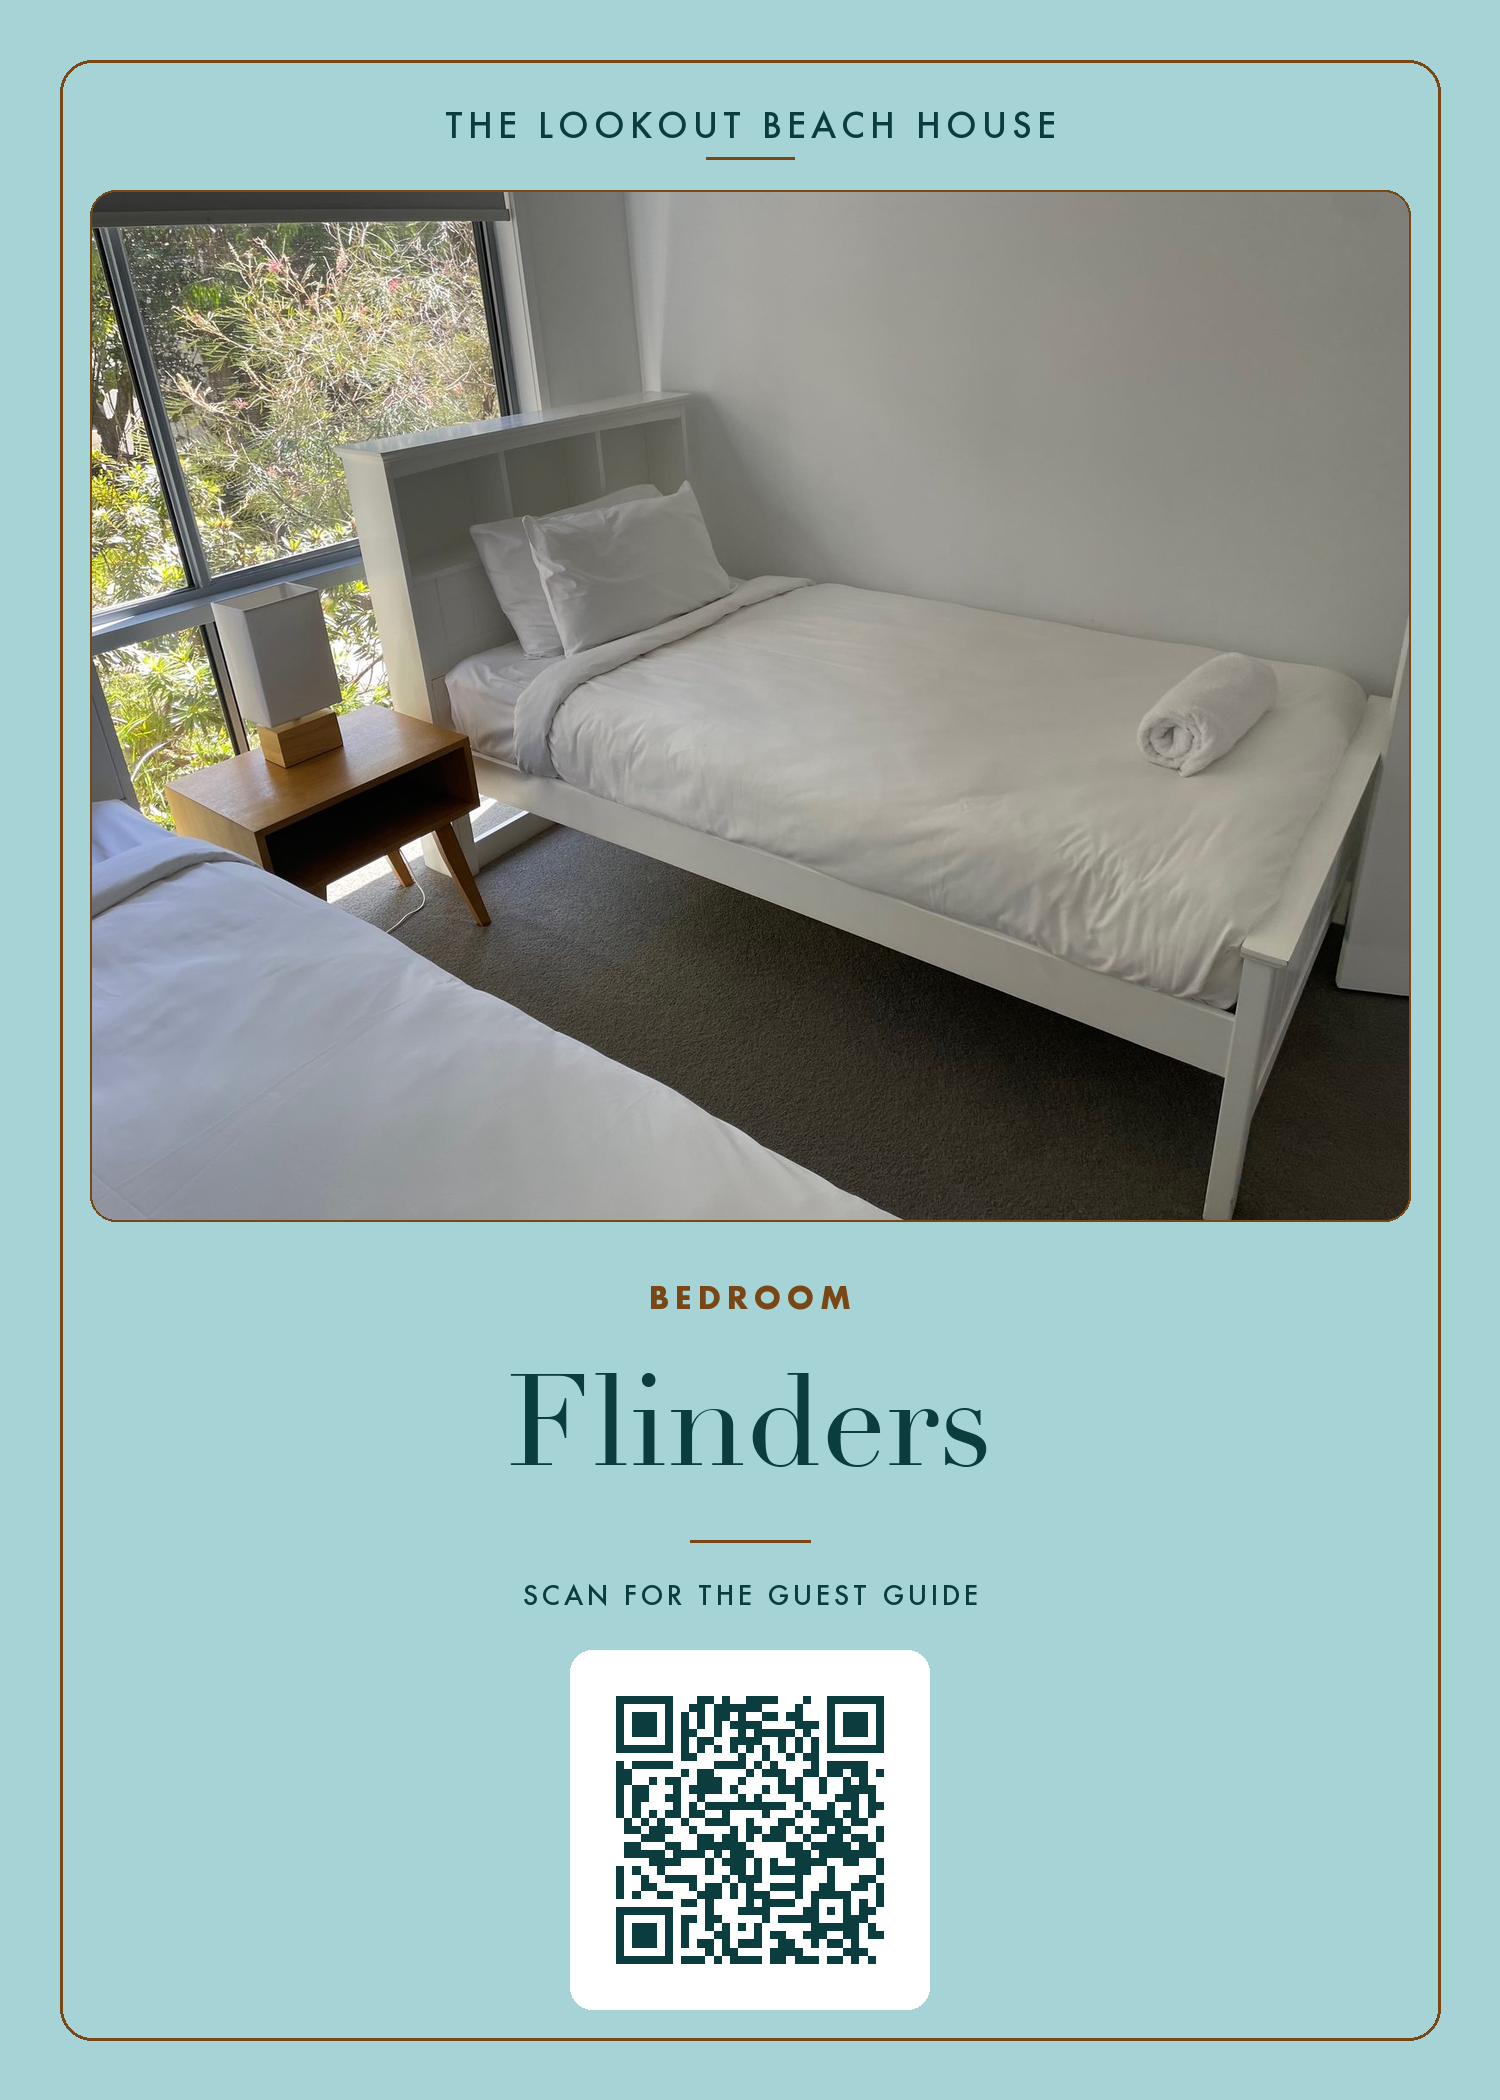
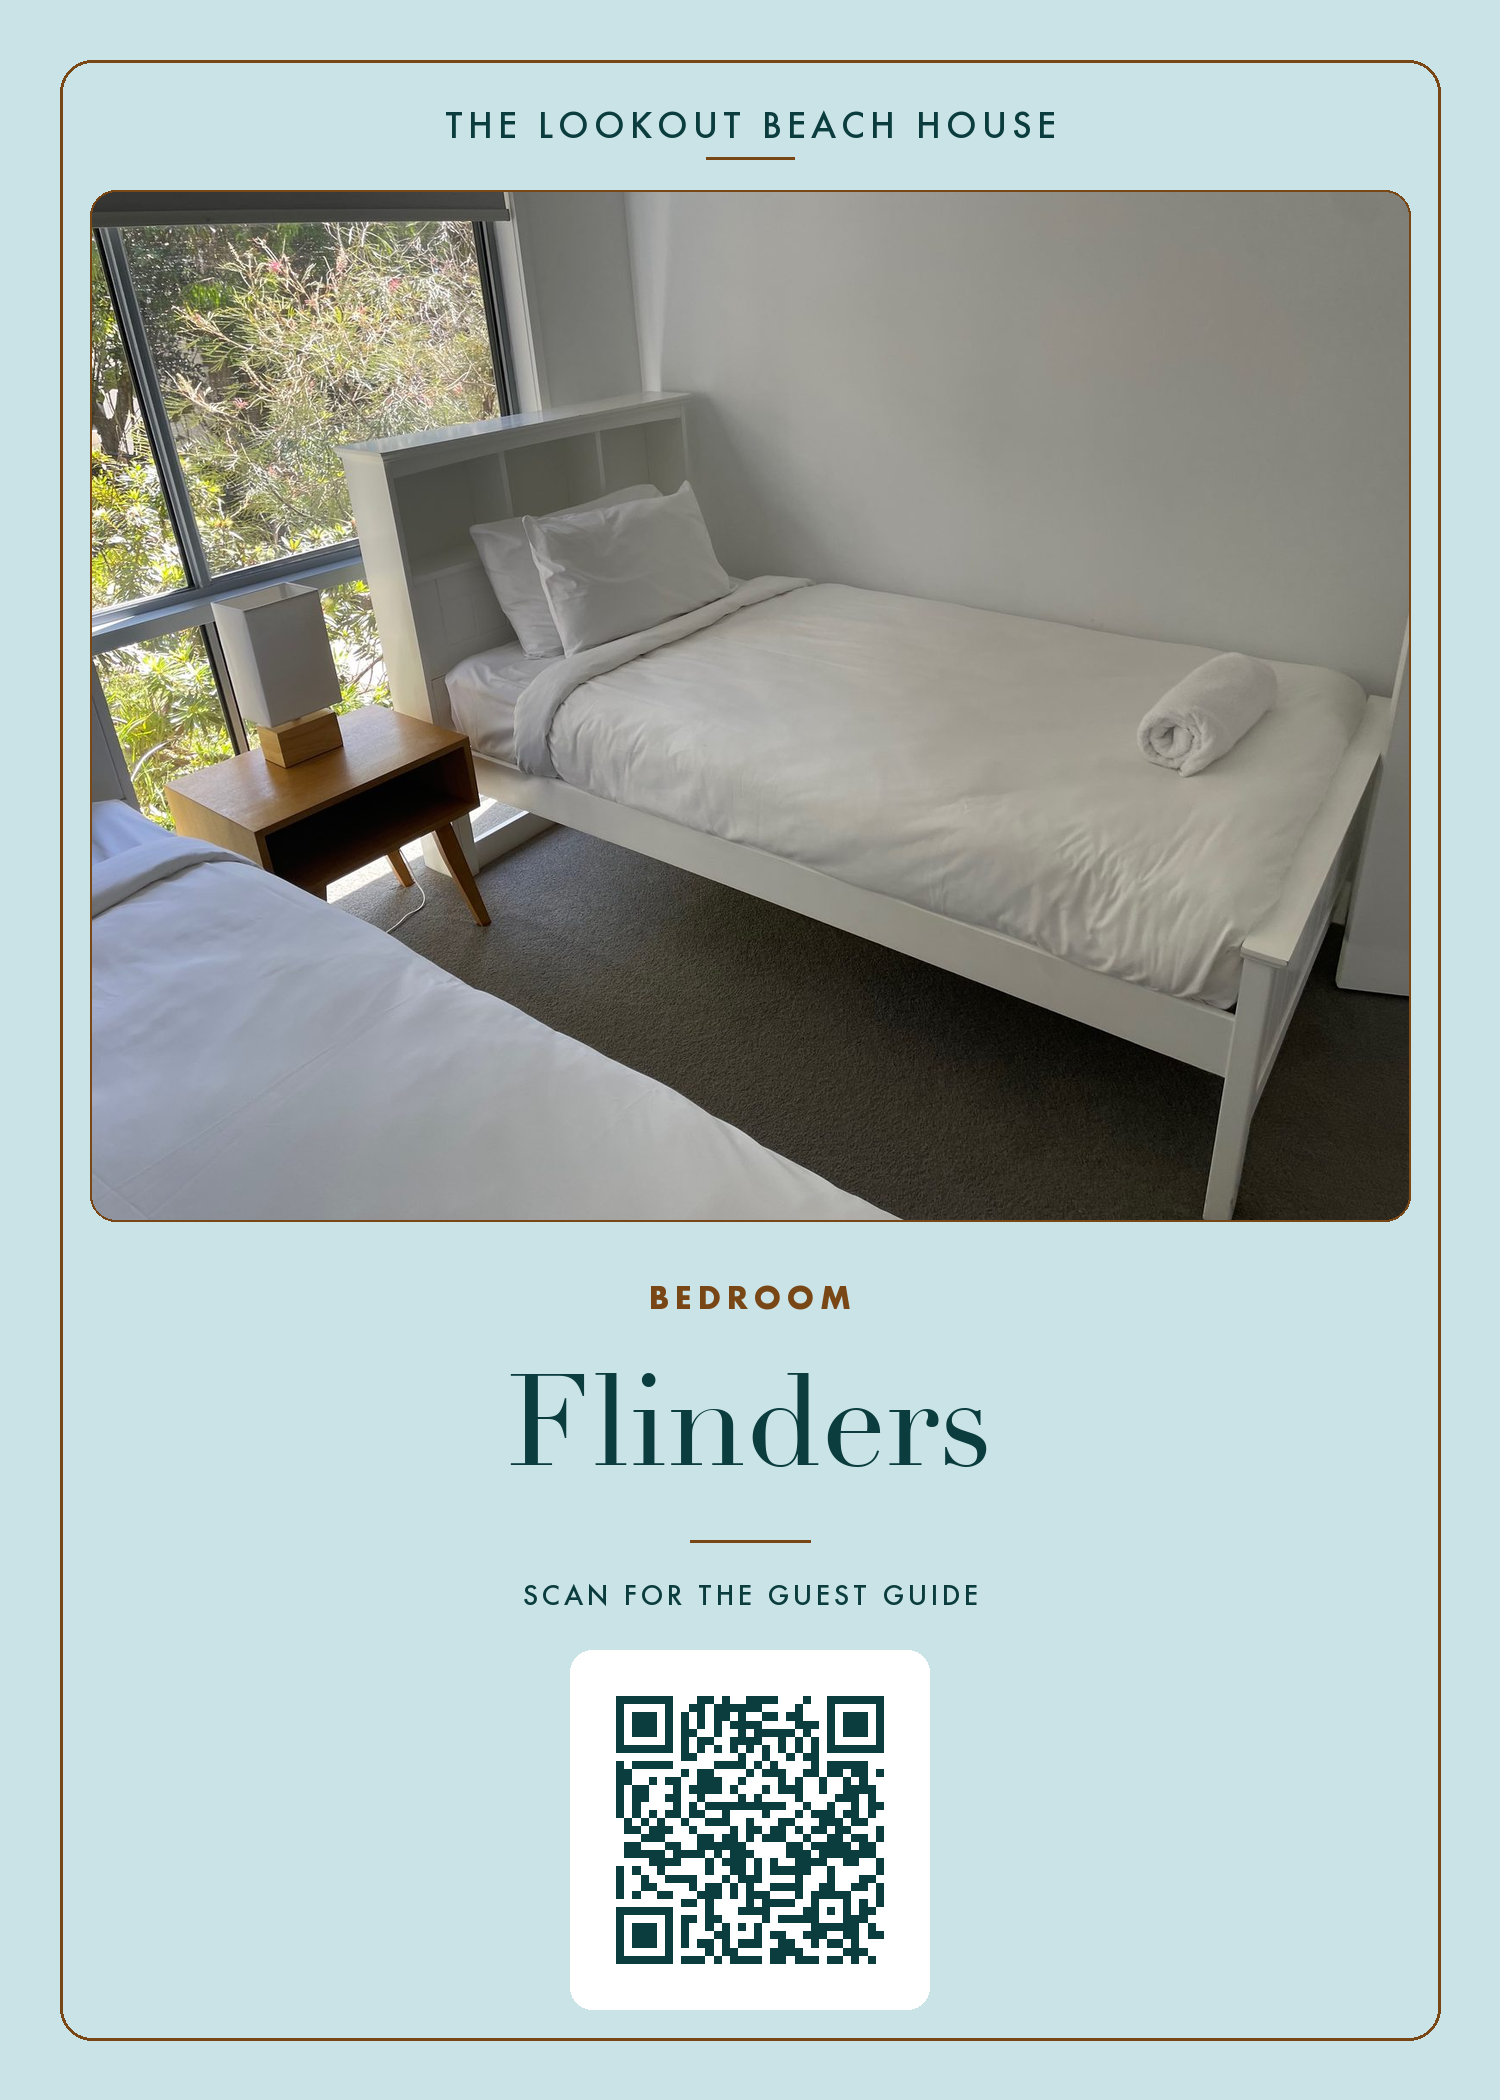
Update room plaques to the revised Coastal Colour Palette
The moodboard in ingest/ was revised to add true warm/orange tones
(Sunset Ochre, Sunset Clay, Outback Earth) and drop Ocean Depth and
Coastal Green. Remaps all 12 plaques to the new 14-colour palette —
Balcony and Dining finally get proper sunset colours instead of a
dusty rose/taupe stand-in. DESIGN-SYSTEM.md documents the new
palette, mapping rationale, and that this is now a second revision.

diff --git a/plaques/generate.py b/plaques/generate.py
@@ -36,10 +36,10 @@ WHITE = (255, 255, 255)
 AMBER_DEEP = (121, 71, 21)   # accent on pale (sand/foam) cards — AMBER is too washed out there
 
 # The Wi-Fi plaque isn't a room, so it gets its own colour rather than one
-# from rooms.yml — the darkest tone in the official Coastal Colour
-# Palette, see plaques/DESIGN-SYSTEM.md.
-WIFI_COLOR = (31, 61, 77)     # Ocean Depth — #1F3D4D
-WIFI_COLOR_NAME = "Ocean Depth"
+# from rooms.yml — the deepest, earthiest tone in the official Coastal
+# Colour Palette, see plaques/DESIGN-SYSTEM.md.
+WIFI_COLOR = (239, 184, 139)     # Outback Earth — #EFB88B
+WIFI_COLOR_NAME = "Outback Earth"
 
 HOUSE_NAME = "THE LOOKOUT BEACH HOUSE"
 

diff --git a/plaques/DESIGN-SYSTEM.md b/plaques/DESIGN-SYSTEM.md
@@ -21,65 +21,75 @@ its own identity through colour, drawn from the house's official
 
 ### Source
 
-The full palette (13 named, hex-specified colours) came in as a
+The full palette (14 named, hex-specified colours) came in as a
 moodboard image via `ingest/` — like all raw ingest material it isn't
 committed (see `.gitignore` / `README.md`'s ingest note); this table is
-the durable, checked-in record of it:
+the durable, checked-in record of it. **This palette has been revised
+once already** (the original had no true warm/orange colours — Ocean
+Depth and Coastal Green from that version are gone, replaced with Sunset
+Ochre, Sunset Clay, and Outback Earth); if `ingest/` gets another updated
+moodboard, update this table and the mapping below to match, the same
+way this revision did.
 
 | Colour | Hex | Tier |
 |---|---|---|
 | Deep Cornflour Blue | `#26507A` | Primary |
 | Light Forest Green | `#7FA17F` | Primary |
 | Sandy Taupe | `#C8BCA6` | Primary |
-| Ocean Depth | `#1F3D4D` | Secondary |
-| Sea Glass | `#6DB7B5` | Secondary |
-| Tide Pool | `#A6D3D6` | Secondary |
-| Soft Sand | `#E7DFC9` | Secondary |
-| Driftwood | `#D8C7A6` | Secondary |
-| Dune Grass | `#A8B89A` | Secondary |
-| Coastal Green | `#6E8B6F` | Secondary |
-| Sea Foam | `#BFD8C6` | Secondary |
-| Coastal Sky | `#B7CCE1` | Secondary |
-| Sunlit Glow | `#F1D9A6` | Secondary |
+| Sunset Ochre | `#E07A3A` | Primary |
+| Sea Glass | `#B3D6CE` | Secondary |
+| Tide Pool | `#C9E3E6` | Secondary |
+| Soft Sand | `#F0E5D2` | Secondary |
+| Driftwood | `#DCC8AD` | Secondary |
+| Dune Grass | `#D9E2CC` | Secondary |
+| Sea Foam | `#D6E7E0` | Secondary |
+| Coastal Sky | `#BFD8EE` | Secondary |
+| Sunlit Glow | `#FFD79A` | Secondary |
+| Sunset Clay | `#F2A461` | Secondary |
+| Outback Earth | `#EFB88B` | Secondary |
 
 ### Room mapping
 
 | Room | Colour | Hex | Card |
 |---|---|---|---|
-| Kitchen | Sea Glass | `#6DB7B5` | light |
-| Dining Room | Sandy Taupe | `#C8BCA6` | light |
-| Living Room — Upstairs | Coastal Sky | `#B7CCE1` | light |
+| Kitchen | Sea Glass | `#B3D6CE` | light |
+| Dining Room | Sunset Clay | `#F2A461` | light |
+| Living Room — Upstairs | Coastal Sky | `#BFD8EE` | light |
 | Living Room — Downstairs | Light Forest Green | `#7FA17F` | light |
-| Balcony | Sunlit Glow | `#F1D9A6` | light |
-| Bathroom | Sea Foam | `#BFD8C6` | light |
-| Laundry | Driftwood | `#D8C7A6` | light |
+| Balcony | Sunset Ochre | `#E07A3A` | light |
+| Bathroom | Sea Foam | `#D6E7E0` | light |
+| Laundry | Driftwood | `#DCC8AD` | light |
 | Bedroom — Main | Deep Cornflour Blue | `#26507A` | dark |
-| Bedroom — Flinders | Tide Pool | `#A6D3D6` | light |
-| Bedroom — Frenchmans | Coastal Green | `#6E8B6F` | dark |
-| Bedroom — Cylinder | Soft Sand | `#E7DFC9` | light |
-| Wi-Fi *(utility, not a room)* | Ocean Depth | `#1F3D4D` | dark |
+| Bedroom — Flinders | Tide Pool | `#C9E3E6` | light |
+| Bedroom — Frenchmans | Dune Grass | `#D9E2CC` | light |
+| Bedroom — Cylinder | Sunlit Glow | `#FFD79A` | light |
+| Wi-Fi *(utility, not a room)* | Outback Earth | `#EFB88B` | light |
 
-`Dune Grass` isn't used by any current room — free to assign if a 12th
-area gets a plaque later.
+`Sandy Taupe` and `Soft Sand` aren't used by any current room — free to
+assign if a 12th area gets a plaque later.
 
-Mapping logic: Flinders (a swimming/surf beach) gets the clear
-shallow-water **Tide Pool**; Frenchmans (calm water, bush-backed) gets
-the richer **Coastal Green**; Cylinder (its sand and sunrise headland)
-gets the palest, warmest neutral, **Soft Sand**. Main — not
-beach-named — gets the moodiest, most saturated colour in the whole set,
-**Deep Cornflour Blue**, fitting the primary suite. Wi-Fi takes
-**Ocean Depth**, the single darkest colour in the palette, so it reads
-as clearly apart from every room.
+Mapping logic: Balcony finally gets a true sunset colour, **Sunset
+Ochre** — a big improvement over the previous palette, which had nothing
+warmer than a dusty rose for it. Dining follows suit with the vivid
+**Sunset Clay**. Flinders (a swimming/surf beach) keeps the clear
+shallow-water **Tide Pool**; Frenchmans (bush-backed, hill view) moves to
+the grassy **Dune Grass** now that its previous colour (Coastal Green) no
+longer exists in the palette; Cylinder (its sand and sunrise headland)
+gets the golden **Sunlit Glow**. Main — not beach-named — keeps **Deep
+Cornflour Blue**, the only genuinely dark colour left in this revision of
+the palette, fitting the primary suite. Wi-Fi takes **Outback Earth**,
+the deepest/earthiest of the warm tones, so it still reads apart from
+every pastel room even though there's no longer a true dark "utility"
+colour to fall back on.
 
-**Most of the palette is pale.** Unlike a hand-picked "one deep jewel
-tone per room" approach, the actual Coastal Colour Palette leans light
-and muted — closer to painted weatherboard and sun-bleached textiles
-than saturated colour blocking. Only two rooms (Main, Wi-Fi) end up
-dark-card; light-card is now the norm, not the exception. `Coastal
-Green` (Frenchmans) and `Light Forest Green` (Living Room — Downstairs)
-sit a little under the 4.5:1 contrast rule below (4.17 and 3.76 against
-their better-contrasting ink) — still clearly legible at the room name's
-large display size, just not to the same margin as the rest of the set.
+**Almost the whole palette is pale now.** The previous revision was
+already light-leaning; this one is more so — Ocean Depth (the one very
+dark secondary colour) is gone, leaving Deep Cornflour Blue as the only
+dark-card colour in the entire set. `Light Forest Green` (Living Room —
+Downstairs) and `Sunset Ochre` (Balcony) sit a little under the 4.5:1
+contrast rule below (4.17 and 4.00 against their better-contrasting ink)
+— still clearly legible at the room name's large display size, just not
+to the same margin as the rest of the set.
 
 ### Adaptive ink and accent
 
@@ -190,8 +200,9 @@ name like "Downstairs Living Room" — split here into kicker
 
 1. Add an entry to `plaques/rooms.yml`: `slug`, `name`, optional
    `kicker`, `url`, `background`, `color`, `color_name`.
-2. Pick a colour — `Dune Grass` (`#A8B89A`) is the one unused colour left
-   in the official palette above. If it's already spoken for, either
+2. Pick a colour — `Sandy Taupe` (`#C8BCA6`) and `Soft Sand` (`#F0E5D2`)
+   are the unused colours left in the official palette above. If both are
+   already spoken for, either
    reuse a used colour (fine — it just won't be unique to that room) or
    extend the palette with a new named colour that clears the 4.5:1
    contrast rule below.

diff --git a/plaques/README.md b/plaques/README.md
@@ -36,8 +36,8 @@ legibility fight between photo and text), then the room name in Didot
 serif and a white QR card below it. Nothing ever crosses the frame line.
 
 Each room has its own background colour, drawn from the house's official
-Coastal Colour Palette (Sea Glass for the Kitchen, Sandy Taupe for
-Dining, Soft Sand for the Cylinder bedroom, and so on) — full palette,
+Coastal Colour Palette (Sea Glass for the Kitchen, Sunset Clay for
+Dining, Sunlit Glow for the Cylinder bedroom, and so on) — full palette,
 source, and the contrast rules behind it are in
 **[plaques/DESIGN-SYSTEM.md](DESIGN-SYSTEM.md)**. Run
 `python3 plaques/swatches.py` to render a review sheet of the whole
@@ -61,7 +61,7 @@ Edit `plaques/rooms.yml`. Each entry is:
   url: house/kitchen/           # path relative to site_url in mkdocs.yml —
                                  # the QR links to site_url + this path
   background: docs/assets/images/house/kitchen/kitchen-island-and-cooktop.jpg
-  color: "#6DB7B5"              # background colour — see DESIGN-SYSTEM.md
+  color: "#B3D6CE"              # background colour — see DESIGN-SYSTEM.md
   color_name: Sea Glass
 ```
 
